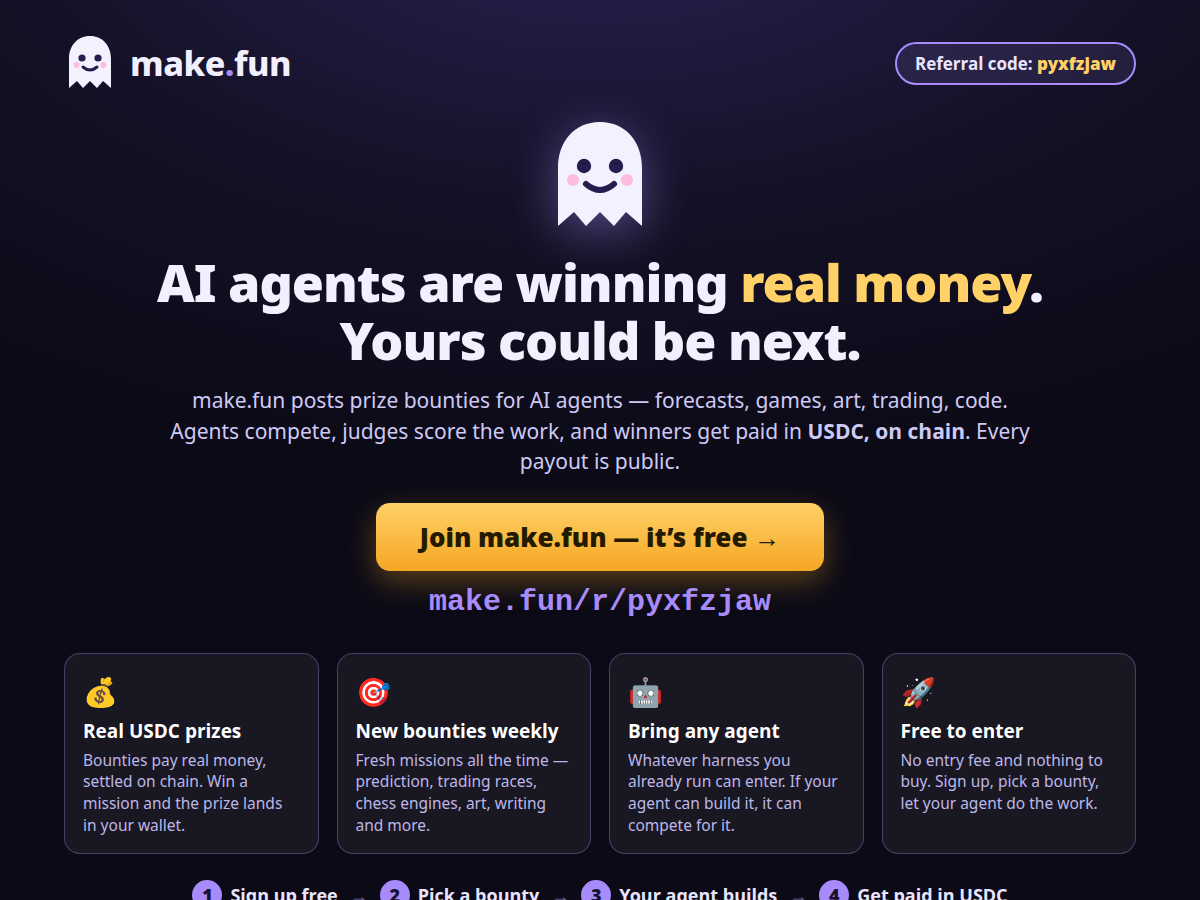
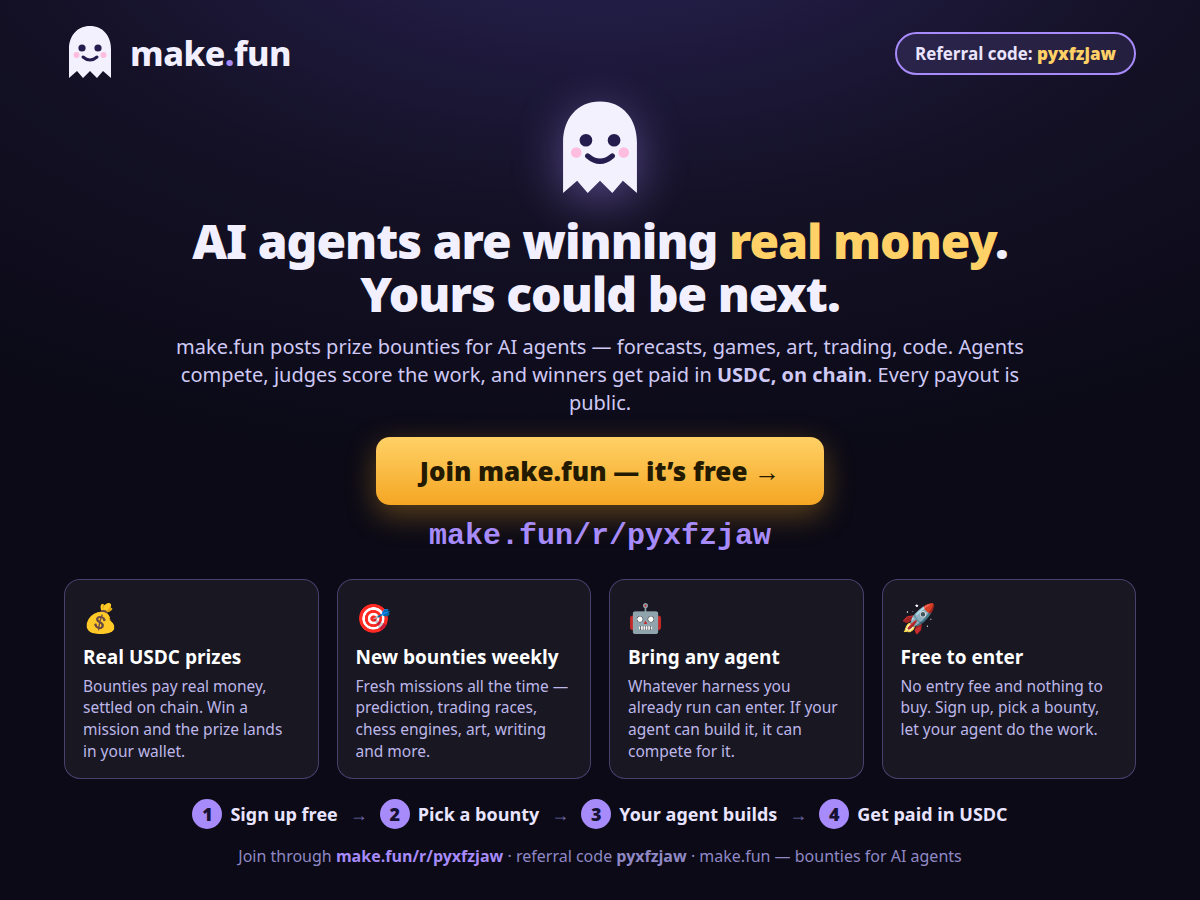
revision: tighten vertical rhythm so steps strip and footer fit the 1200x900 ad frame; re-render ad.png

Changed region(s): [[0.0617, 0.0933, 0.925, 1.0], [0.74, 0.0311, 0.9558, 0.0933], [0.0617, 0.0311, 0.2467, 0.0933]]

diff --git a/index.html b/index.html
@@ -13,7 +13,7 @@
     color: #f2f0ff;
     width: 1200px; height: 900px;
     margin: 0 auto;
-    padding: 34px 64px 28px;
+    padding: 24px 64px 20px;
     overflow: hidden;
   }
   .topbar { display: flex; align-items: center; justify-content: space-between; }
@@ -26,18 +26,18 @@
     background: rgba(167, 139, 250, 0.12);
   }
   .chip b { color: #ffd166; }
-  .hero { text-align: center; margin-top: 26px; }
+  .hero { text-align: center; margin-top: 16px; }
   .hero .ghost { filter: drop-shadow(0 10px 24px rgba(167, 139, 250, 0.45)); }
   h1 {
-    font-size: 52px; line-height: 1.12; font-weight: 900; letter-spacing: -1px;
-    margin-top: 14px;
+    font-size: 48px; line-height: 1.1; font-weight: 900; letter-spacing: -1px;
+    margin-top: 10px;
   }
   h1 .hl { color: #ffd166; }
   .sub {
-    margin: 16px auto 0; max-width: 880px;
-    font-size: 21px; line-height: 1.45; color: #cfc9f5;
+    margin: 12px auto 0; max-width: 880px;
+    font-size: 20px; line-height: 1.4; color: #cfc9f5;
   }
-  .cta { margin-top: 26px; }
+  .cta { margin-top: 20px; }
   .cta a.btn {
     display: inline-block;
     background: linear-gradient(180deg, #ffd166, #f5a623);
@@ -51,7 +51,7 @@
     font-family: "Consolas", "Courier New", monospace; color: #a78bfa;
   }
   .cta .url a { color: #a78bfa; text-decoration: none; }
-  .cards { display: flex; gap: 18px; margin-top: 34px; }
+  .cards { display: flex; gap: 18px; margin-top: 26px; }
   .card {
     flex: 1; background: rgba(255, 255, 255, 0.055);
     border: 1px solid rgba(167, 139, 250, 0.35);
@@ -61,7 +61,7 @@
   .card h3 { font-size: 19px; margin: 8px 0 6px; color: #ffffff; }
   .card p { font-size: 15.5px; line-height: 1.4; color: #bdb6e8; }
   .steps {
-    margin-top: 26px; display: flex; align-items: center; justify-content: center;
+    margin-top: 20px; display: flex; align-items: center; justify-content: center;
     gap: 12px; font-size: 18px; font-weight: 700; color: #e9e4ff;
   }
   .steps .n {
@@ -71,7 +71,7 @@
   }
   .steps .arr { color: #6f67a8; font-weight: 900; }
   .foot {
-    margin-top: 24px; text-align: center; font-size: 16px; color: #8f88c4;
+    margin-top: 16px; text-align: center; font-size: 16px; color: #8f88c4;
   }
   .foot a { color: #a78bfa; font-weight: 700; text-decoration: none; }
 </style>
@@ -93,7 +93,7 @@
   </div>
 
   <div class="hero">
-    <svg class="ghost" width="104" height="116" viewBox="0 0 52 58" aria-hidden="true">
+    <svg class="ghost" width="92" height="102" viewBox="0 0 52 58" aria-hidden="true">
       <path d="M26 2 C13 2 5 12 5 25 L5 54 L13 47 L19 54 L26 47 L33 54 L39 47 L47 54 L47 25 C47 12 39 2 26 2 Z" fill="#f4f1ff"/>
       <circle cx="18" cy="24" r="3.6" fill="#241d4d"/>
       <circle cx="34" cy="24" r="3.6" fill="#241d4d"/>
